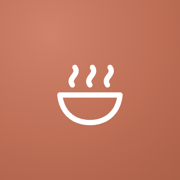
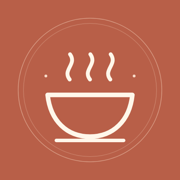
feat: 更新应用图标并添加 PWA 启动画面

diff --git a/index.html b/index.html
@@ -3,7 +3,9 @@
 <head>
   <meta charset="UTF-8" />
   <meta name="viewport" content="width=device-width, initial-scale=1, maximum-scale=1, user-scalable=no, viewport-fit=cover" />
-  <meta name="theme-color" content="#f7f5ed" />
+  <meta name="theme-color" content="#f8f0e4" />
+  <link rel="icon" type="image/svg+xml" href="./public/assets/icon.svg" />
+  <link rel="icon" type="image/png" sizes="192x192" href="./public/assets/icon-192.png" />
   <title>白家私厨 · 今天吃什么</title>
   <link rel="manifest" href="./manifest.json" />
   <link rel="apple-touch-icon" href="./public/assets/apple-touch-icon.png" />
@@ -11,9 +13,28 @@
   <meta name="apple-mobile-web-app-capable" content="yes" />
   <meta name="apple-mobile-web-app-status-bar-style" content="default" />
   <meta name="apple-mobile-web-app-title" content="白家私厨" />
+  <style>
+    .launch{display:none}
+    .is-standalone .launch{position:fixed;inset:0;z-index:9999;display:flex;flex-direction:column;align-items:center;justify-content:center;overflow:hidden;background:#f8f0e4;color:#654537;transition:opacity .4s ease,visibility .4s ease}
+    .launch::before{content:"";position:absolute;inset:0;opacity:.28;background-image:radial-gradient(#d7bba1 .6px,transparent .6px);background-size:5px 5px}
+    .launch-inner{position:relative;display:flex;flex-direction:column;align-items:center;transform:translateY(-2vh)}
+    .launch-mark{width:108px;height:108px;border-radius:32px;box-shadow:0 14px 32px #a65d4230}
+    .launch-name{margin:27px 0 0;font:600 27px/1.3 "Songti SC","STSong",serif;letter-spacing:.2em;text-indent:.2em}
+    .launch-subtitle{margin:12px 0 0;color:#ad8b76;font:11px/1.5 "PingFang SC",sans-serif;letter-spacing:.28em;text-indent:.28em}
+    .launch-footer{position:absolute;bottom:max(42px,env(safe-area-inset-bottom));display:flex;align-items:center;gap:12px;color:#bca28e;font:10px/1.5 "PingFang SC",sans-serif;letter-spacing:.15em}
+    .launch-footer::before,.launch-footer::after{content:"";width:22px;height:1px;background:#d7c2af}
+    .launch.is-finished{opacity:0;visibility:hidden;pointer-events:none}
+    @media(prefers-reduced-motion:reduce){.launch{transition:none!important}}
+  </style>
+  <script>if (matchMedia('(display-mode: standalone)').matches || navigator.standalone === true) document.documentElement.classList.add('is-standalone');</script>
   <link rel="stylesheet" href="./style.css" />
 </head>
 <body>
+  <div class="launch" id="launch" aria-hidden="true">
+    <div class="launch-inner"><img class="launch-mark" src="./public/assets/icon.svg" alt="" /><p class="launch-name">白家私厨</p><p class="launch-subtitle">家的味道，日日有新意</p></div>
+    <div class="launch-footer">为每一顿家常饭</div>
+  </div>
+  <script>setTimeout(function(){var el=document.getElementById('launch');if(el)el.classList.add('is-finished')},3000);</script>
   <main class="presentation">
     <aside class="intro" aria-label="设计说明">
       <div class="brand"><span class="brand-mark" aria-label="白家私厨标志"><svg viewBox="0 0 40 40" aria-hidden="true"><path d="M8 22h24c-.7 7-5.5 11-12 11S8.7 29 8 22Z"/><path d="M13 18c-2-3 3-4 1-7M20 18c-2-3 3-4 1-7M27 18c-2-3 3-4 1-7"/></svg></span><span>白家私厨 <small>家的味道</small></span></div>

diff --git a/sw.js b/sw.js
@@ -1,6 +1,6 @@
 // 家宴 Service Worker：预缓存全部静态资源，离线也能打开。
 // 更新页面内容后，把下面 VERSION 加一（如 'v2'）即可让所有客户端换用新缓存。
-const VERSION = 'v14';
+const VERSION = 'v15';
 const CACHE = `jiayan-${VERSION}`;
 const ASSETS = [
   './',
@@ -10,6 +10,7 @@ const ASSETS = [
   './manifest.json',
   './config.js',
   './public/vendor/supabase.js',
+  './public/assets/icon.svg',
   './public/assets/icon-192.png',
   './public/assets/icon-512.png',
   './public/assets/icon-maskable-512.png',

diff --git a/app.js b/app.js
@@ -272,5 +272,8 @@ function bind(){
  const save=app.querySelector('[data-action=save]');if(save)save.onclick=saveMenuImage;
 }
 render();
+if (document.documentElement.classList.contains('is-standalone')) {
+ setTimeout(() => document.getElementById('launch')?.classList.add('is-finished'), 900);
+}
 initDishes();
 if ('serviceWorker' in navigator) addEventListener('load', () => { navigator.serviceWorker.register('./sw.js').catch(() => {}) });
